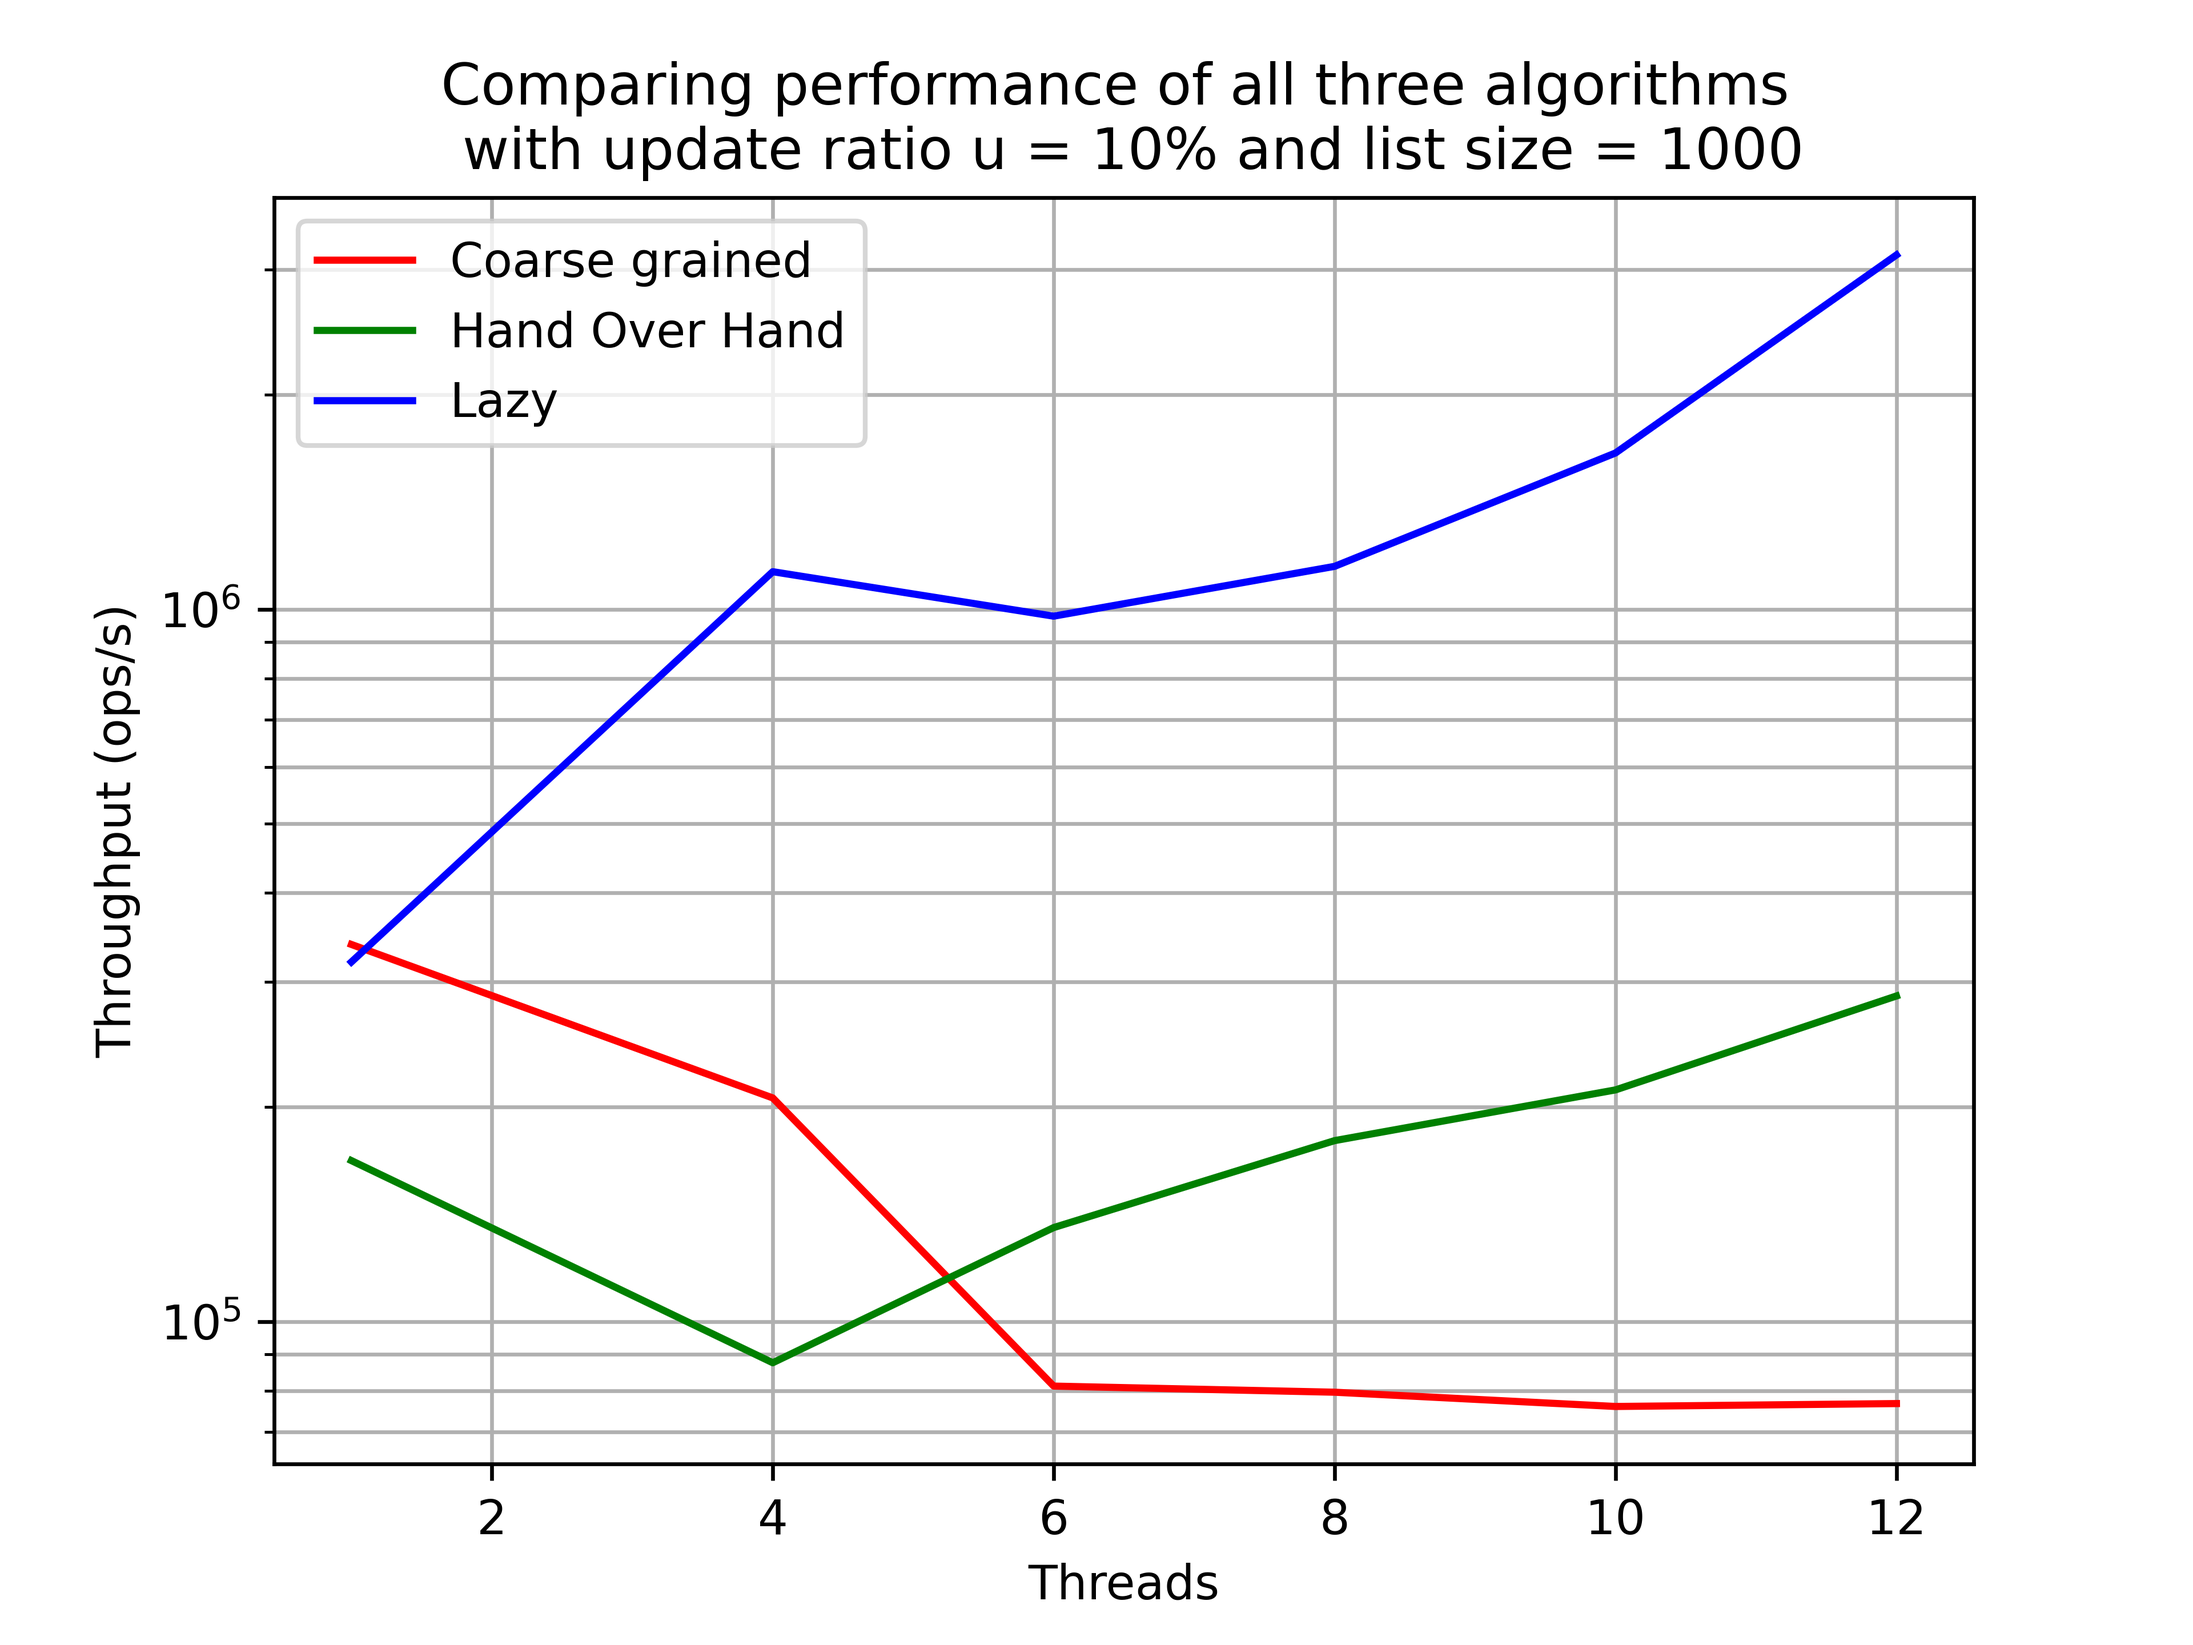
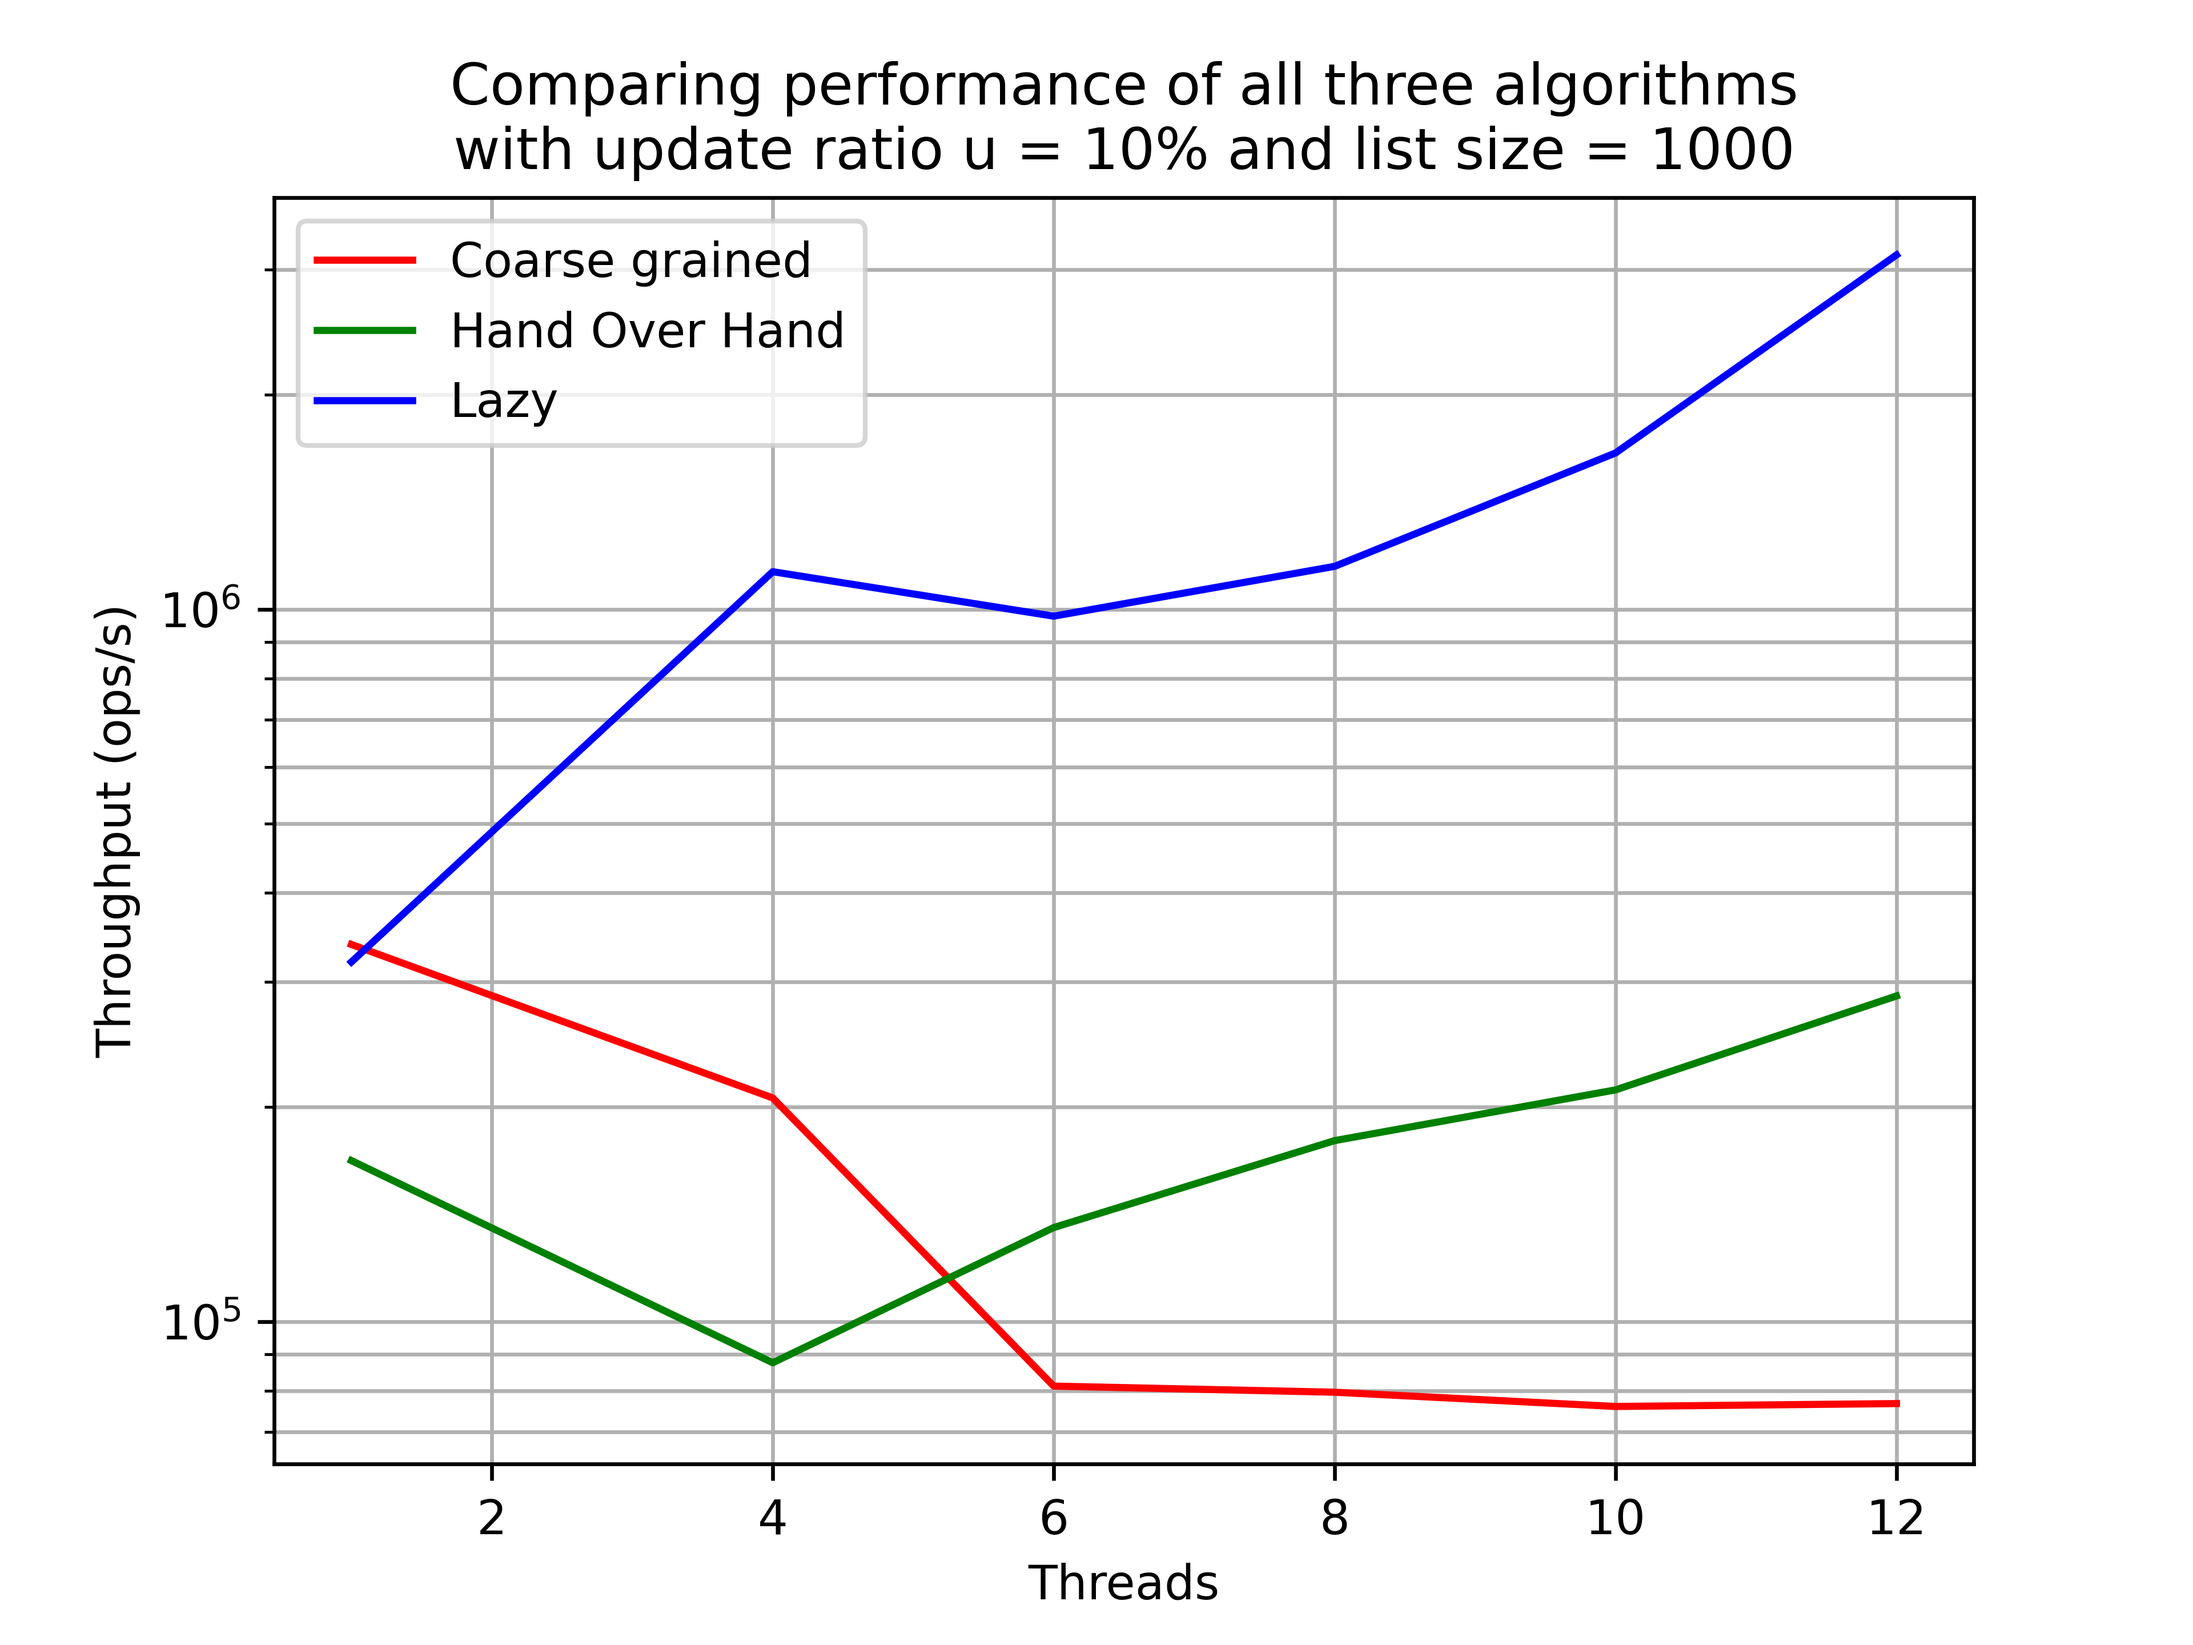
cleaning title of the figures

Changed region(s): [[0.1875, 0.0312, 0.8125, 0.125]]

diff --git a/output/data/ploting.py b/output/data/ploting.py
@@ -62,7 +62,7 @@ plt.plot(coarse.loc[(coarse['uratio'] == 10) & (coarse['lsize'] == 100)]['thread
 plt.plot(coarse.loc[(coarse['uratio'] == 100) & (coarse['lsize'] == 100)]['threads'], coarse.loc[(coarse['uratio'] == 100) & (coarse['lsize'] == 100)]['throughput'], 'b')
 plt.xlabel('Threads')
 plt.ylabel('Throughput (ops/s)')
-plt.title('Performance of the Coarse Grained Algorithm with list size = 100')
+plt.title('Performance of the Coarse Grained Algorithm\nwith list size = 100')
 plt.grid(True, which="both")
 plt.legend(['u = 0%', 'u = 10%', 'u = 100%'])
 plt.savefig("CoarseGrained_lsize=100.png", dpi = 600)
@@ -75,7 +75,7 @@ plt.plot(hOh.loc[(hOh['uratio'] == 10) & (hOh['lsize'] == 100)]['threads'], hOh.
 plt.plot(hOh.loc[(hOh['uratio'] == 100) & (hOh['lsize'] == 100)]['threads'], hOh.loc[(hOh['uratio'] == 100) & (hOh['lsize'] == 100)]['throughput'], 'b')
 plt.xlabel('Threads')
 plt.ylabel('Throughput (ops/s)')
-plt.title('Performance of the Hand Over Hand Algorithm with list size = 100')
+plt.title('Performance of the Hand Over Hand Algorithm\nwith list size = 100')
 plt.grid(True, which="both")
 plt.legend(['u = 0%', 'u = 10%', 'u = 100%'])
 plt.savefig("HandOverHand_lsize=100.png", dpi = 600)
@@ -88,7 +88,7 @@ plt.plot(lazy.loc[(lazy['uratio'] == 10) & (lazy['lsize'] == 100)]['threads'], l
 plt.plot(lazy.loc[(lazy['uratio'] == 100) & (lazy['lsize'] == 100)]['threads'], lazy.loc[(lazy['uratio'] == 100) & (lazy['lsize'] == 100)]['throughput'], 'b')
 plt.xlabel('Threads')
 plt.ylabel('Throughput (ops/s)')
-plt.title('Performance of the Lazy Algorithm with list size = 100')
+plt.title('Performance of the Lazy Algorithm\nwith list size = 100')
 plt.grid(True, which="both")
 plt.legend(['u = 0%', 'u = 10%', 'u = 100%'])
 plt.savefig("Lazy_lsize=100.png", dpi = 600)
@@ -101,7 +101,7 @@ plt.plot(hOh.loc[(hOh['uratio'] == 10) & (hOh['lsize'] == 1000)]['threads'], hOh
 plt.plot(lazy.loc[(lazy['uratio'] == 10) & (lazy['lsize'] == 1000)]['threads'], lazy.loc[(lazy['uratio'] == 10) & (lazy['lsize'] == 1000)]['throughput'], 'b')
 plt.xlabel('Threads')
 plt.ylabel('Throughput (ops/s)')
-plt.title('Comparing performance of all three algorithms \n with update ratio u = 10% and list size = 1000')
+plt.title('Comparing performance of all three algorithms\nwith update ratio u = 10% and list size = 1000')
 plt.grid(True, which="both")
 plt.semilogy()
 plt.legend(['Coarse grained', 'Hand Over Hand', 'Lazy'])
